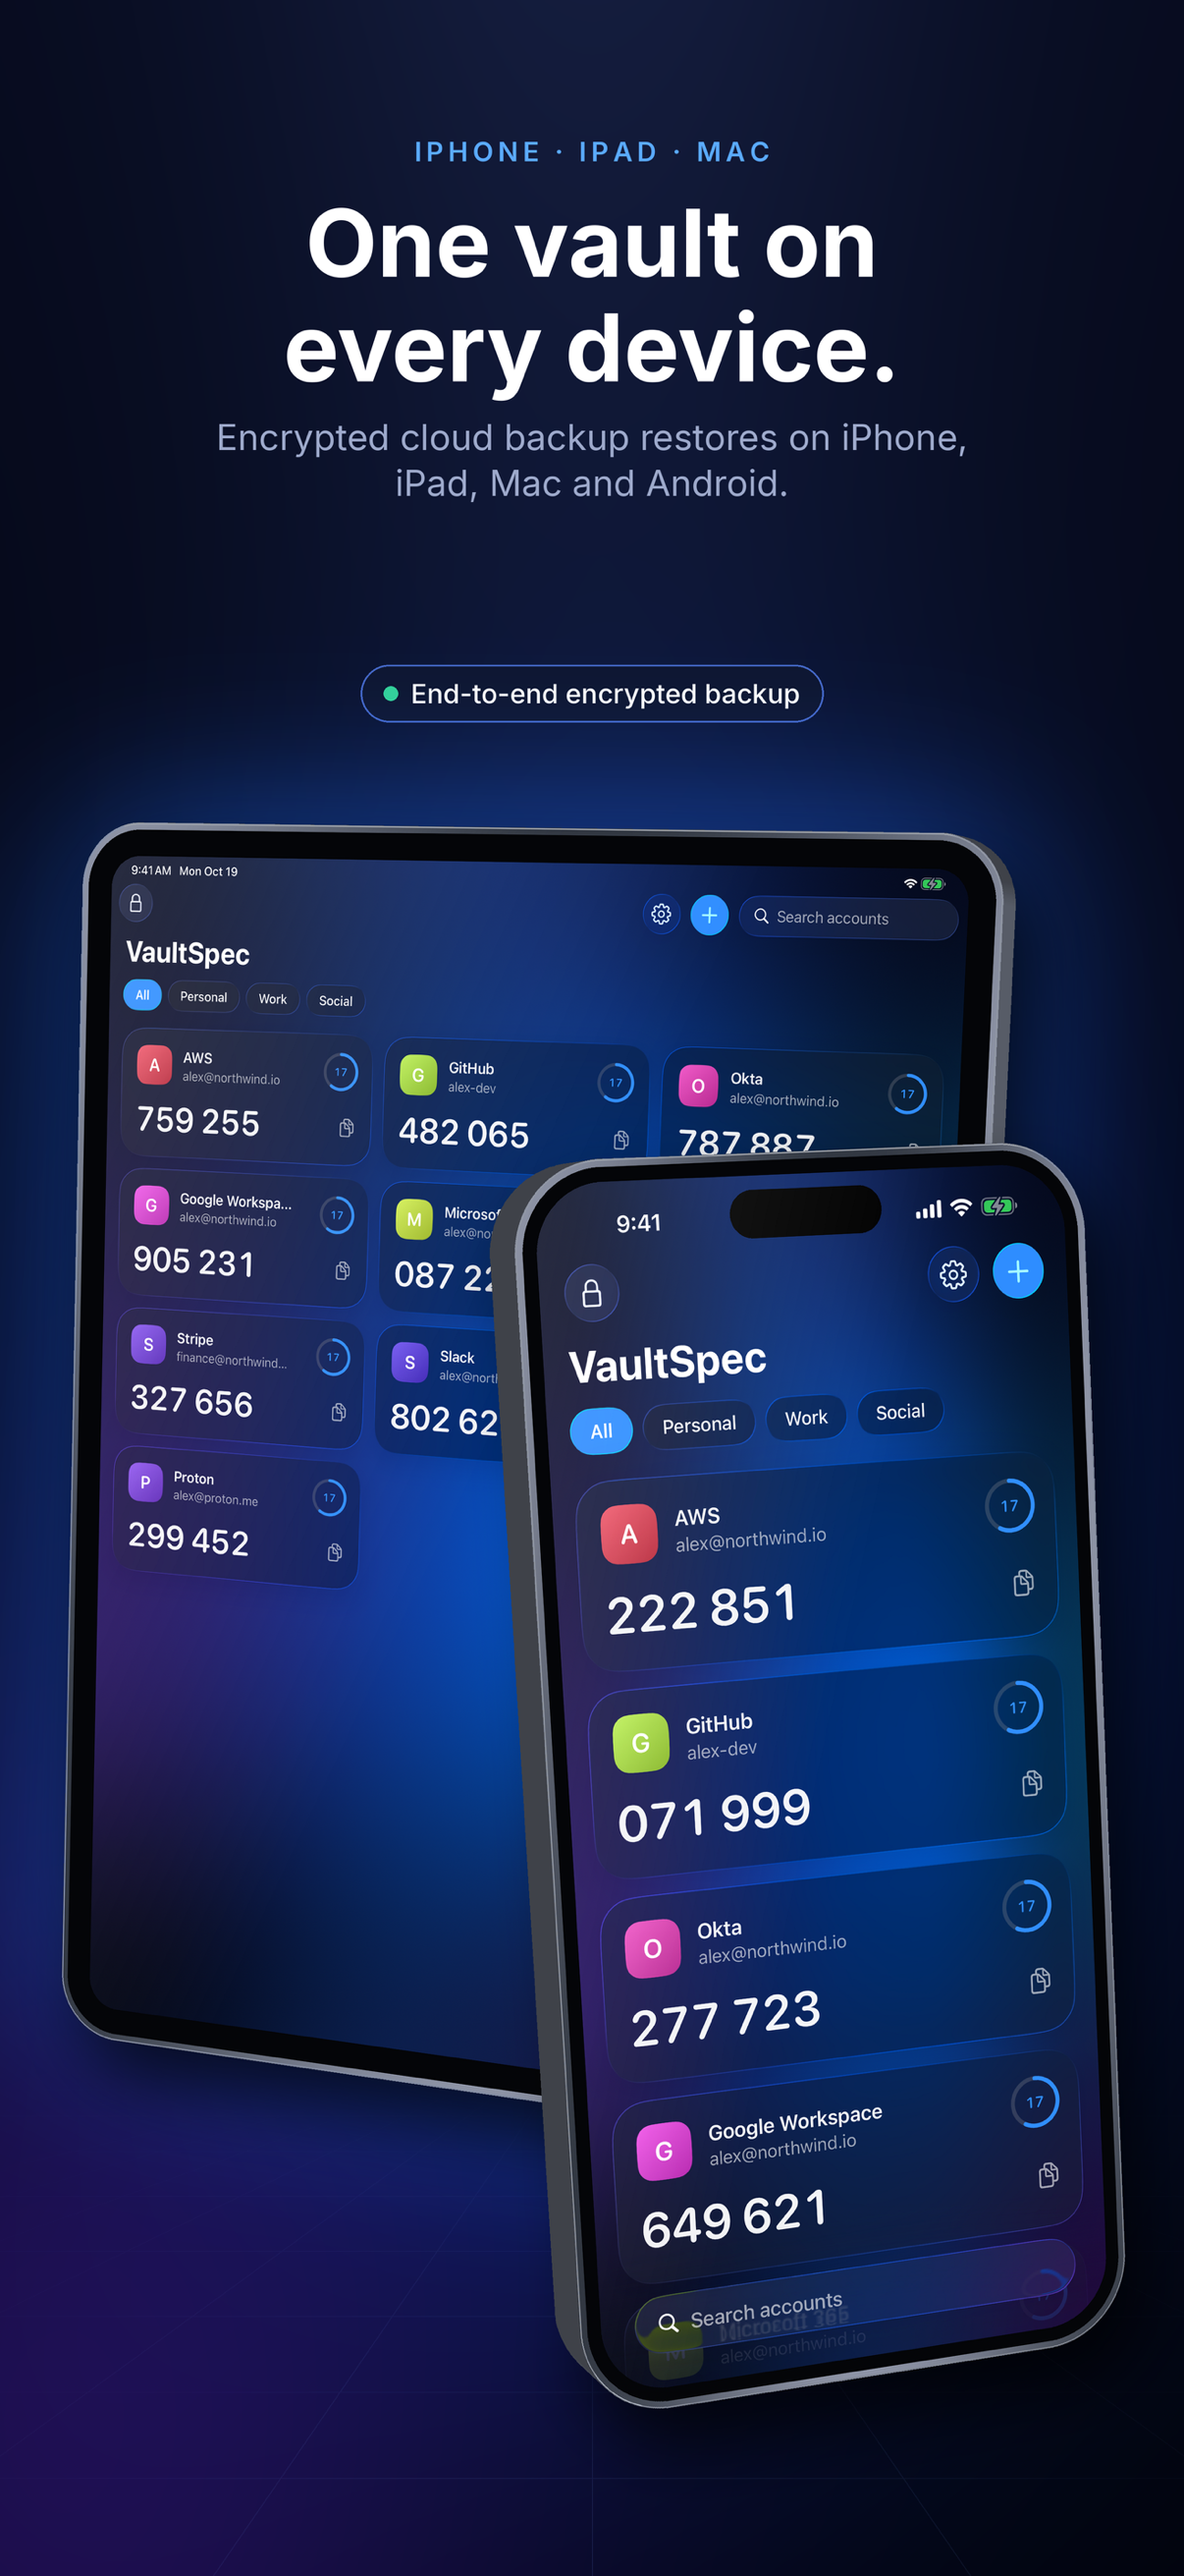
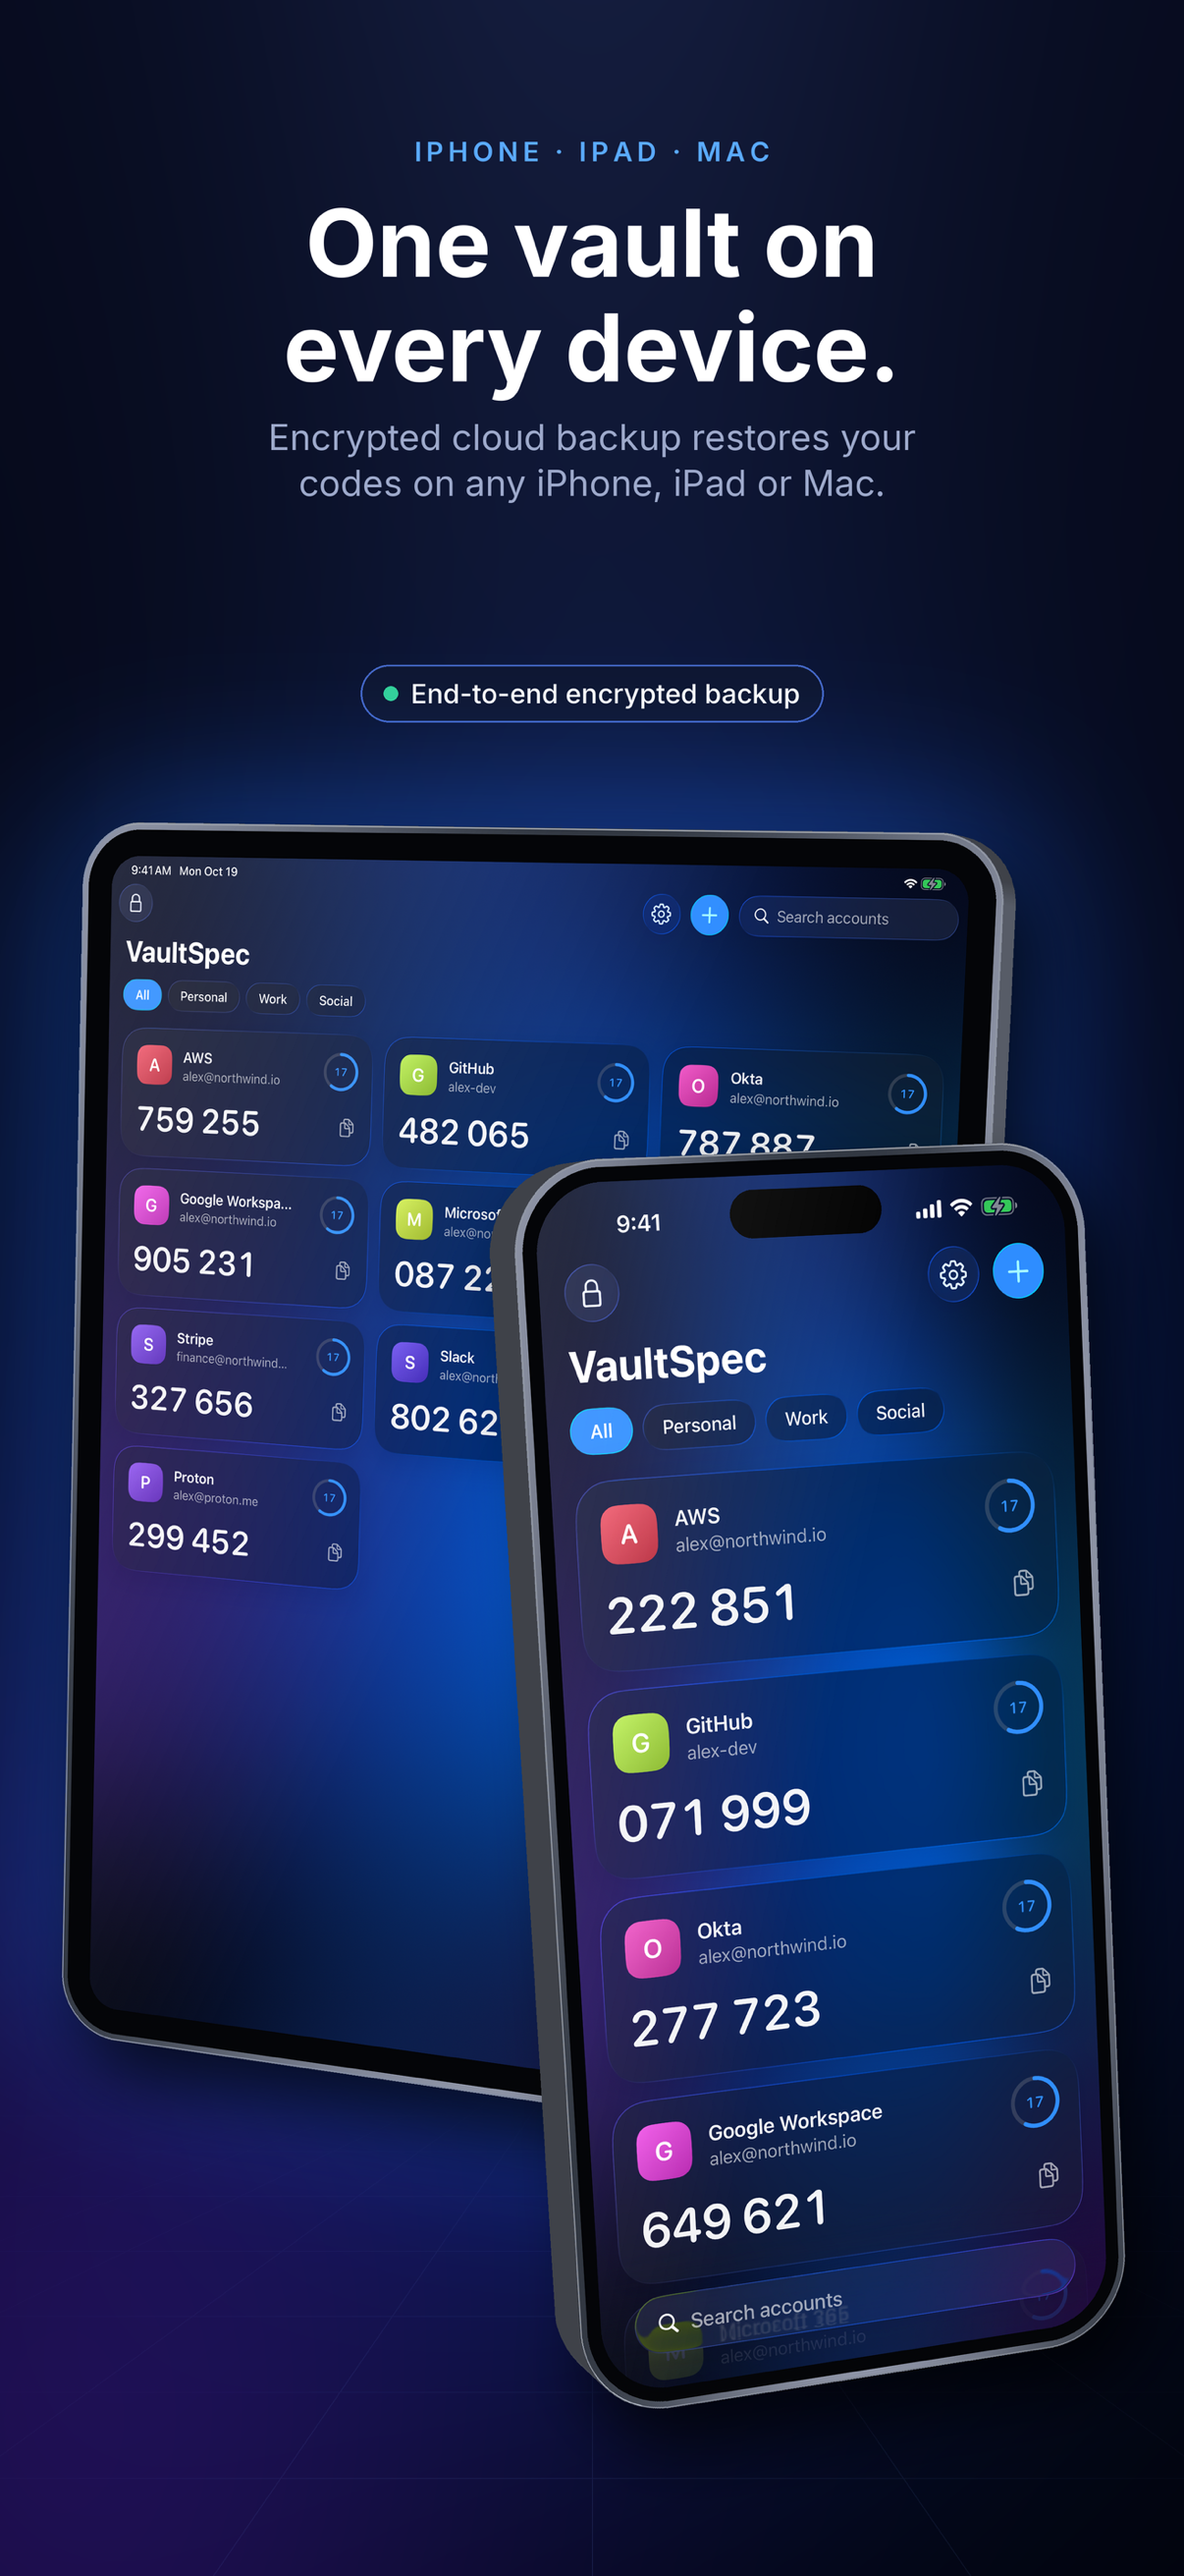
App Store assets: Mac screenshots, header and search results art
- Mac screenshots (2880 × 1800) and their renderer.
- Product page header (21:9), search results (3:2) and a 16:9 asset for both.
- "Every device" screenshots no longer name another platform (guideline 2.3.10).

Changed region(s): [[0.1841, 0.1545, 0.7977, 0.2162]]

diff --git a/marketing/appstore/source/render_mac.py b/marketing/appstore/source/render_mac.py
@@ -1,0 +1,107 @@
+"""Mac App Store screenshots (2880 × 1800): the real Mac window in perspective, beside the headline."""
+import os
+import sys
+
+from PIL import Image, ImageDraw, ImageFilter
+
+HERE = os.path.dirname(os.path.abspath(__file__))
+RAW_MAC, RAW_IOS, OUT = sys.argv[1], sys.argv[2], sys.argv[3]
+
+# Reuse the backdrop, devices, type and badges from the iPhone/iPad renderer (everything above its layouts)
+source = open(os.path.join(HERE, "render_store.py")).read()
+shared = source[: source.index("# ─── iPhone")]
+sys.argv = [sys.argv[0], RAW_IOS, OUT]
+exec(compile(shared, "render_store.py", "exec"))
+
+MW, MH = 2880, 1800
+
+
+def place_window(canvas, window, cx, cy, width, yaw=-12, pitch=4, roll=0):
+    """A flat window (with its transparent rounded corners) in perspective, lit from behind, with a soft shadow."""
+    w, h = window.size
+    s = width * SS / w
+    f = 3.2 * width * SS
+    ya, pa, ra = map(math.radians, (yaw, pitch, roll))
+
+    def project(u, v):
+        x, y, z = (u - w / 2) * s, (v - h / 2) * s, 0.0
+        x, y = x * math.cos(ra) - y * math.sin(ra), x * math.sin(ra) + y * math.cos(ra)
+        x, z = x * math.cos(ya) + z * math.sin(ya), -x * math.sin(ya) + z * math.cos(ya)
+        y, z = y * math.cos(pa) - z * math.sin(pa), y * math.sin(pa) + z * math.cos(pa)
+        k = f / (f + z)
+        return cx * SS + x * k, cy * SS + y * k
+
+    corners = [project(0, 0), project(w, 0), project(w, h), project(0, h)]
+    coeffs = find_coeffs(corners, [(0, 0), (w, 0), (w, h), (0, h)])
+    warped = window.convert("RGBA").transform(canvas.size, Image.PERSPECTIVE, coeffs, Image.BICUBIC)
+    alpha = warped.split()[3]
+
+    glow = Image.new("RGBA", canvas.size, (30, 110, 255, 0))
+    glow.putalpha(alpha.filter(ImageFilter.GaussianBlur(110 * SS)).point(lambda a: int(a * 0.6)))
+    canvas.alpha_composite(glow)
+    shadow = Image.new("RGBA", canvas.size, (0, 0, 0, 0))
+    moved = Image.new("L", canvas.size, 0)
+    moved.paste(alpha, (int(30 * SS), int(60 * SS)))
+    shadow.putalpha(moved.filter(ImageFilter.GaussianBlur(50 * SS)).point(lambda a: int(a * 0.8)))
+    canvas.alpha_composite(shadow)
+    # A hairline that catches the light around the window edge
+    edge = Image.new("RGBA", canvas.size, (200, 215, 255, 0))
+    ring = alpha.filter(ImageFilter.MaxFilter(5)).point(lambda a: 255 if a > 128 else 0)
+    inner = alpha.point(lambda a: 255 if a > 128 else 0)
+    edge.putalpha(Image.fromarray((np.array(ring, dtype=np.int16) - np.array(inner, dtype=np.int16)).clip(0, 255).astype(np.uint8)).point(lambda a: int(a * 0.5)))
+    canvas.alpha_composite(edge)
+    canvas.alpha_composite(warped)
+
+
+def left_badges(canvas, items, x, y, scale=1.0):
+    d = ImageDraw.Draw(canvas)
+    fnt = font("medium", 30 * scale)
+    h, gap, pad = 64 * SS * scale, 16 * SS * scale, 26 * SS * scale
+    X, Y = x * SS, y * SS
+    for t, color in items:
+        w = d.textlength(t, font=fnt) + pad * 2 + 30 * SS * scale
+        if X + w > canvas.size[0] * 0.42:
+            X, Y = x * SS, Y + h + gap
+        d.rounded_rectangle([X, Y, X + w, Y + h], h / 2, fill=(14, 22, 48, 235), outline=(70, 105, 200, 150), width=2 * SS)
+        r = 8 * SS * scale
+        cxd, cyd = X + pad + r, Y + h / 2
+        d.ellipse([cxd - r, cyd - r, cxd + r, cyd + r], fill=color + (255,))
+        d.text((cxd + r + 14 * SS * scale, cyd), t, font=fnt, fill=WHITE, anchor="lm")
+        X += w + gap
+
+
+def mac(name, eyebrow, title, subtitle, badges, window, glow=(0.66, 0.5), extra=None):
+    c = backdrop(MW * SS, MH * SS, glow)
+    text_block(c, eyebrow, title, subtitle, 600, scale=0.98, align="left", left=0.055)
+    left_badges(c, badges, 160, 1150, scale=1.0)
+    if extra:
+        extra(c)
+    else:
+        place_window(c, Image.open(f"{RAW_MAC}/{window}.png"), 2090, 900, 1440, yaw=-13, pitch=4, roll=0)
+    finish(c, name, (MW, MH))
+
+
+GREEN, AMBER, VIOLET = (52, 211, 153), (255, 176, 32), (167, 139, 250)
+
+mac("mac-01-codes", "VaultSpec for Mac", "Your 2FA codes,\nnext to your work.",
+    "A native Mac app with Touch ID,\nkeyboard shortcuts and a live grid.",
+    [("Touch ID", BLUE), ("AES-256-GCM", GREEN), ("Works offline", VIOLET)], "mac-codes")
+
+mac("mac-02-security", "Security controls", "Locked down\nby default.",
+    "Auto-Lock when you step away,\ntap to reveal and password reminders.",
+    [("Auto-Lock", AMBER), ("Touch ID", BLUE)], "mac-settings")
+
+mac("mac-03-add", "Setup in seconds", "Add any service\nin seconds.",
+    "Paste a setup link or key.\nSHA-1, SHA-256 and SHA-512.",
+    [("Setup link or key", BLUE), ("6 or 8 digits", VIOLET)], "mac-add")
+
+
+def devices(c):
+    place_window(c, Image.open(f"{RAW_MAC}/mac-codes.png"), 2020, 820, 1300, yaw=-10, pitch=4)
+    place(c, shot("ipad-codes"), "ipad", 2560, 1250, 900, yaw=-18, pitch=6, roll=-2, depth=0.035, glow=False)
+    place(c, shot("iphone-codes"), "phone", 1500, 1300, 820, yaw=16, pitch=7, roll=3, glow=False)
+
+
+mac("mac-04-devices", "Mac · iPhone · iPad", "One vault on\nevery device.",
+    "Encrypted cloud backup restores your codes\non any Mac, iPhone or iPad.",
+    [("End-to-end encrypted backup", GREEN)], None, extra=devices)

diff --git a/marketing/appstore/source/render_creative.py b/marketing/appstore/source/render_creative.py
@@ -1,0 +1,71 @@
+"""App Store creative assets: product page header (21:9), search results (3:2) and the 16:9 asset that serves both.
+Same studio look as the screenshots; focal point centred, one short phrase, no other platforms mentioned."""
+import os
+import sys
+
+from PIL import Image, ImageDraw
+
+HERE = os.path.dirname(os.path.abspath(__file__))
+RAW_MAC, RAW_IOS, OUT = sys.argv[1], sys.argv[2], sys.argv[3]
+
+# Backdrop, devices and type from the screenshot renderer; the perspective window from the Mac renderer
+source = open(os.path.join(HERE, "render_store.py")).read()
+exec(compile(source[: source.index("# ─── iPhone")], "render_store.py", "exec"))
+mac_source = open(os.path.join(HERE, "render_mac.py")).read()
+start = mac_source.index("def place_window")
+exec(compile(mac_source[start: mac_source.index("def left_badges")], "render_mac.py", "exec"))
+
+RAW, OUT = RAW_IOS, sys.argv[3]  # the shared code reset both; shot() reads iPhone and iPad captures from RAW
+SS = 1  # these canvases are already 4K-plus; supersampling would only cost memory
+
+
+def headline(canvas, eyebrow, title, top, size):
+    d = ImageDraw.Draw(canvas)
+    w = canvas.size[0]
+    small = font("semibold", size * 0.30)
+    big = font("bold", size)
+    text = eyebrow.upper()
+    spacing = size * 0.05
+    total = sum(d.textlength(ch, font=small) + spacing for ch in text) - spacing
+    x = (w - total) / 2
+    for ch in text:
+        d.text((x, top), ch, font=small, fill=SKY)
+        x += d.textlength(ch, font=small) + spacing
+    y = top + size * 0.62
+    for line in title.split("\n"):
+        d.text(((w - d.textlength(line, font=big)) / 2, y), line, font=big, fill=WHITE)
+        y += size * 1.1
+
+
+def save(canvas, name):
+    canvas.convert("RGB").save(f"{OUT}/{name}.png", optimize=True)
+    print("wrote", name, canvas.size)
+
+
+mac_window = Image.open(f"{RAW_MAC}/m1.png")
+iphone = shot("iphone-codes")
+ipad = shot("ipad-codes")
+
+# Product page header, 21:9 (3840 × 1646): the three devices as one centred group under a short line
+c = backdrop(3840, 1646, glow=(0.5, 0.62))
+headline(c, "VaultSpec Authenticator", "Your 2FA codes. Locked down.", 120, 150)
+place_window(c, mac_window, 1920, 1010, 1500, yaw=0, pitch=8)
+place(c, ipad, "ipad", 1090, 1060, 980, yaw=24, pitch=6, roll=2, depth=0.035, glow=False)
+place(c, iphone, "phone", 2760, 1110, 900, yaw=-24, pitch=7, roll=-2, glow=False)
+save(c, "header-3840x1646")
+
+# Search results, 3:2 (3840 × 2560): say plainly what it is, with the codes front and centre
+c = backdrop(3840, 2560, glow=(0.5, 0.64))
+headline(c, "Two-factor authenticator", "Encrypted 2FA codes\nfor iPhone, iPad and Mac", 170, 190)
+place_window(c, mac_window, 1920, 1640, 1900, yaw=0, pitch=8)
+place(c, iphone, "phone", 2980, 1780, 1250, yaw=-20, pitch=7, roll=-2, glow=False)
+place(c, ipad, "ipad", 860, 1760, 1280, yaw=20, pitch=6, roll=2, depth=0.035, glow=False)
+save(c, "search-3840x2560")
+
+# One asset for both placements, 16:9 (5244 × 2950)
+c = backdrop(5244, 2950, glow=(0.5, 0.62))
+headline(c, "VaultSpec Authenticator", "Your 2FA codes. Locked down.", 260, 210)
+place_window(c, mac_window, 2622, 1760, 2300, yaw=0, pitch=8)
+place(c, ipad, "ipad", 1380, 1860, 1550, yaw=24, pitch=6, roll=2, depth=0.035, glow=False)
+place(c, iphone, "phone", 3860, 1930, 1400, yaw=-24, pitch=7, roll=-2, glow=False)
+save(c, "universal-5244x2950")

diff --git a/marketing/appstore/source/render_store.py b/marketing/appstore/source/render_store.py
@@ -306,7 +306,7 @@ place(c, shot("iphone-lock"), "phone", 660, 2440, 2300, yaw=-12, pitch=16, roll=
 finish(c, "iphone-04-lock", (PW, PH))
 
 c = phone_canvas((0.55, 0.62))
-text_block(c, "iPhone · iPad · Mac", "One vault on\nevery device.", "Encrypted cloud backup restores on iPhone,\niPad, Mac and Android.", 150)
+text_block(c, "iPhone · iPad · Mac", "One vault on\nevery device.", "Encrypted cloud backup restores your\ncodes on any iPhone, iPad or Mac.", 150)
 badges(c, [("End-to-end encrypted backup", GREEN)], 740)
 place(c, shot("ipad-codes"), "ipad", 560, 1640, 1420, yaw=22, pitch=6, roll=2, depth=0.035)
 place(c, shot("iphone-codes"), "phone", 930, 1980, 1380, yaw=-20, pitch=7, roll=-3, glow=False)
@@ -334,7 +334,7 @@ place(c, shot("ipad-settings"), "ipad", 1032, 1780, 1740, yaw=16, pitch=7, roll=
 finish(c, "ipad-02-security", (IW, IH))
 
 c = ipad_canvas((0.55, 0.64))
-text_block(c, "iPhone · iPad · Mac", "One vault on\nevery device.", "Encrypted cloud backup restores on iPhone, iPad, Mac and Android.", 140, scale=1.2)
+text_block(c, "iPhone · iPad · Mac", "One vault on\nevery device.", "Encrypted cloud backup restores your codes on any iPhone, iPad or Mac.", 140, scale=1.2)
 badges(c, [("End-to-end encrypted backup", GREEN)], 720, scale=1.2)
 place(c, shot("ipad-codes"), "ipad", 900, 1740, 1620, yaw=20, pitch=6, roll=2, depth=0.035)
 place(c, shot("iphone-codes"), "phone", 1560, 1990, 1250, yaw=-20, pitch=7, roll=-3, glow=False)
